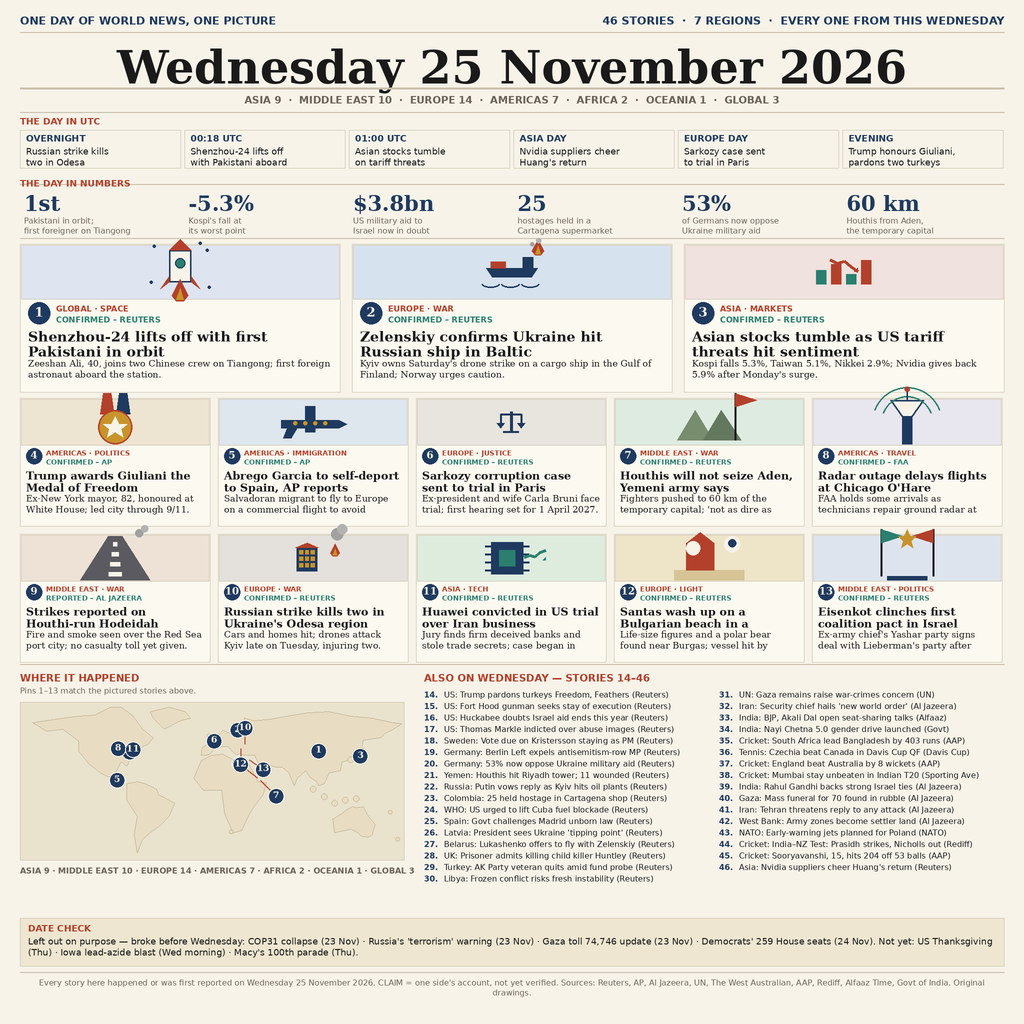
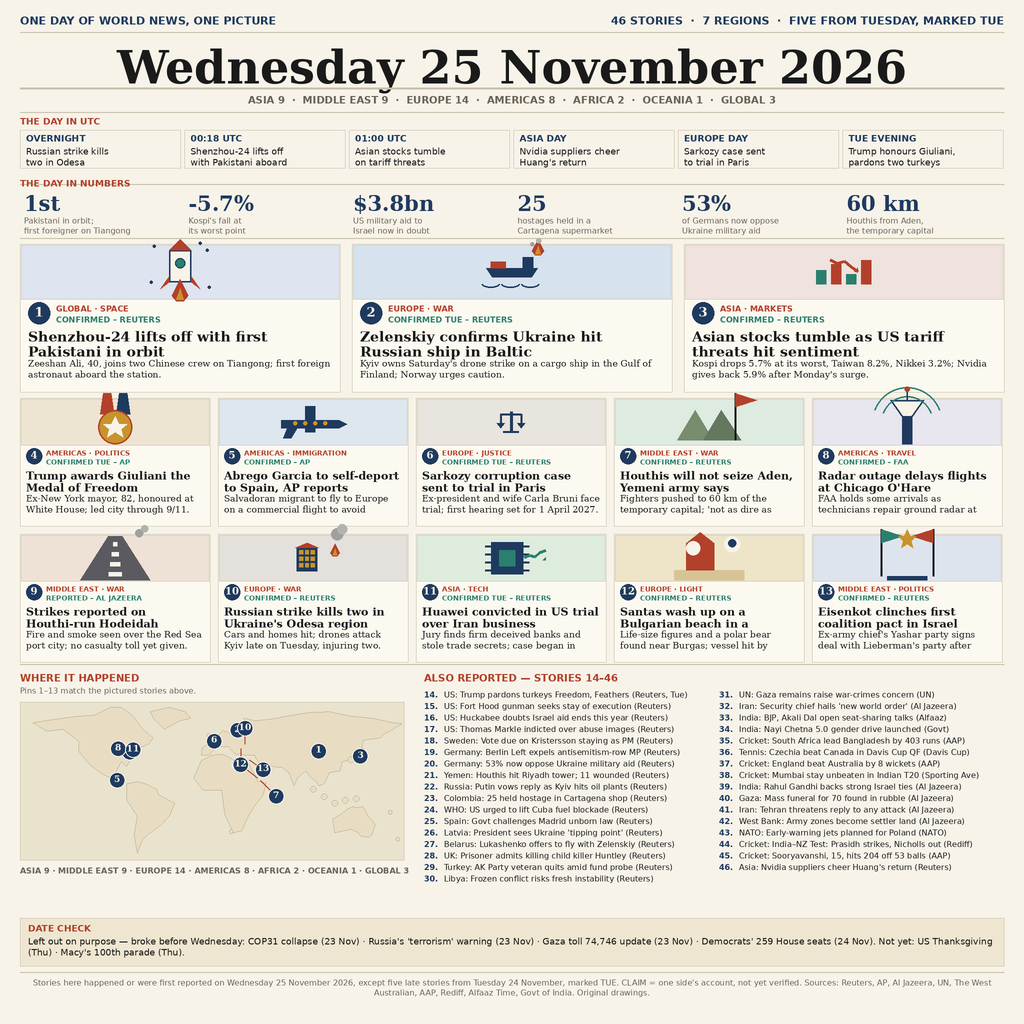
Reviewer fixes: honest Tuesday dating (5 stories marked TUE), Lead 3 figures (Kospi -5.7%, Taiwan -8.2%, Nikkei -3.2%), region counts (Middle East 9, Americas 8), DATE CHECK drops Iowa blast from not-yet list; re-render

diff --git a/render.py b/render.py
@@ -5,8 +5,9 @@ Dense cream-serif newspaper front page (ATM recipe): 46 stories,
 13 pictured (3 leads + 10 cards), UTC timeline, day-in-numbers
 strip, pinned world map, 33 one-line briefs, DATE CHECK box and a
 verification footer. All illustrations are flat vector shapes
-drawn from scratch with PIL primitives. All stories are real,
+drawn from scratch with PIL primitives. All stories are real:
 dated Wednesday 25 November 2026 (or first reported that day),
+except five late stories from Tuesday 24 November, marked TUE,
 sourced from live news search (Reuters, AP, Al Jazeera, UN, ...).
 
 Drawn at 2048x2048 (master), then downscaled to 1024x1024 for
@@ -71,7 +72,7 @@ def hline(y, x0=MX, x1=W - MX, fill=RULE, width=2):
 # ---------------------------------------------------------------- kicker
 fk = F(SANSB, 22)
 text(MX, 28, "ONE DAY OF WORLD NEWS, ONE PICTURE", fk, NAVY)
-text(W - MX, 28, "46 STORIES  ·  7 REGIONS  ·  EVERY ONE FROM THIS WEDNESDAY",
+text(W - MX, 28, "46 STORIES  ·  7 REGIONS  ·  FIVE FROM TUESDAY, MARKED TUE",
      fk, NAVY, anchor="ra")
 hline(64)
 
@@ -81,7 +82,7 @@ text(W // 2, 80, "Wednesday 25 November 2026", fm, INK, anchor="ma")
 hline(176, width=4)
 fsub = F(SANSB, 20)
 text(W // 2, 188,
-     "ASIA 9  ·  MIDDLE EAST 10  ·  EUROPE 14  ·  AMERICAS 7  ·  AFRICA 2  ·  OCEANIA 1  ·  GLOBAL 3",
+     "ASIA 9  ·  MIDDLE EAST 9  ·  EUROPE 14  ·  AMERICAS 8  ·  AFRICA 2  ·  OCEANIA 1  ·  GLOBAL 3",
      fsub, MUTED, anchor="ma")
 hline(224)
 
@@ -94,7 +95,7 @@ timeline = [
     ("01:00 UTC", "Asian stocks tumble\non tariff threats"),
     ("ASIA DAY", "Nvidia suppliers cheer\nHuang's return"),
     ("EUROPE DAY", "Sarkozy case sent\nto trial in Paris"),
-    ("EVENING", "Trump honours Giuliani,\npardons two turkeys"),
+    ("TUE EVENING", "Trump honours Giuliani,\npardons two turkeys"),
 ]
 ty, th = 236, 100
 text(MX, ty - 4, "THE DAY IN UTC", F(SANSB, 18), BRICK)
@@ -112,7 +113,7 @@ ny = 356
 text(MX, ny, "THE DAY IN NUMBERS", F(SANSB, 18), BRICK)
 nums = [
     ("1st", "Pakistani in orbit;\nfirst foreigner on Tiangong"),
-    ("-5.3%", "Kospi's fall at\nits worst point"),
+    ("-5.7%", "Kospi's fall at\nits worst point"),
     ("$3.8bn", "US military aid to\nIsrael now in doubt"),
     ("25", "hostages held in a\nCartagena supermarket"),
     ("53%", "of Germans now oppose\nUkraine military aid"),
@@ -298,21 +299,21 @@ LEADS = [
     (1, "rocket", "GLOBAL", "SPACE", "CONFIRMED – REUTERS",
      "Shenzhou-24 lifts off with first Pakistani in orbit",
      "Zeeshan Ali, 40, joins two Chinese crew on Tiangong; first foreign astronaut aboard the station."),
-    (2, "ship", "EUROPE", "WAR", "CONFIRMED – REUTERS",
+    (2, "ship", "EUROPE", "WAR", "CONFIRMED TUE – REUTERS",
      "Zelenskiy confirms Ukraine hit Russian ship in Baltic",
      "Kyiv owns Saturday's drone strike on a cargo ship in the Gulf of Finland; Norway urges caution."),
     (3, "chart", "ASIA", "MARKETS", "CONFIRMED – REUTERS",
      "Asian stocks tumble as US tariff threats hit sentiment",
-     "Kospi falls 5.3%, Taiwan 5.1%, Nikkei 2.9%; Nvidia gives back 5.9% after Monday's surge."),
+     "Kospi drops 5.7% at its worst, Taiwan 8.2%, Nikkei 3.2%; Nvidia gives back 5.9% after Monday's surge."),
 ]
 CARDS = [
-    (4, "medal", "AMERICAS", "POLITICS", "CONFIRMED – AP",
+    (4, "medal", "AMERICAS", "POLITICS", "CONFIRMED TUE – AP",
      "Trump awards Giuliani the Medal of Freedom",
      "Ex-New York mayor, 82, honoured at White House; led city through 9/11."),
     (5, "plane", "AMERICAS", "IMMIGRATION", "CONFIRMED – AP",
      "Abrego Garcia to self-deport to Spain, AP reports",
      "Salvadoran migrant to fly to Europe on a commercial flight to avoid deportation."),
-    (6, "scales", "EUROPE", "JUSTICE", "CONFIRMED – REUTERS",
+    (6, "scales", "EUROPE", "JUSTICE", "CONFIRMED TUE – REUTERS",
      "Sarkozy corruption case sent to trial in Paris",
      "Ex-president and wife Carla Bruni face trial; first hearing set for 1 April 2027."),
     (7, "flag", "MIDDLE EAST", "WAR", "CONFIRMED – REUTERS",
@@ -327,7 +328,7 @@ CARDS = [
     (10, "blast", "EUROPE", "WAR", "CONFIRMED – REUTERS",
      "Russian strike kills two in Ukraine's Odesa region",
      "Cars and homes hit; drones attack Kyiv late on Tuesday, injuring two."),
-    (11, "chip", "ASIA", "TECH", "CONFIRMED – REUTERS",
+    (11, "chip", "ASIA", "TECH", "CONFIRMED TUE – REUTERS",
      "Huawei convicted in US trial over Iran business",
      "Jury finds firm deceived banks and stole trade secrets; case began in 2018."),
     (12, "santa", "EUROPE", "LIGHT", "CONFIRMED – REUTERS",
@@ -458,15 +459,15 @@ for lon, lat, num in PINS:
     text(qx, qy - 14, str(num), fpin, PAPER, anchor="ma")
 
 text(mapx, map_bot + 12,
-     "ASIA 9 · MIDDLE EAST 10 · EUROPE 14 · AMERICAS 7 · AFRICA 2 · OCEANIA 1 · GLOBAL 3",
+     "ASIA 9 · MIDDLE EAST 9 · EUROPE 14 · AMERICAS 8 · AFRICA 2 · OCEANIA 1 · GLOBAL 3",
      F(SANSB, 16), MUTED)
 
 # --- briefs panel
 bx = mapx + mapw + 24
 bw = W - MX - bx
-text(bx, by + 16, "ALSO ON WEDNESDAY — STORIES 14–46", F(SANSB, 20), BRICK)
+text(bx, by + 16, "ALSO REPORTED — STORIES 14–46", F(SANSB, 20), BRICK)
 BRIEFS = [
-    (14, "US: Trump pardons turkeys Freedom, Feathers (Reuters)"),
+    (14, "US: Trump pardons turkeys Freedom, Feathers (Reuters, Tue)"),
     (15, "US: Fort Hood gunman seeks stay of execution (Reuters)"),
     (16, "US: Huckabee doubts Israel aid ends this year (Reuters)"),
     (17, "US: Thomas Markle indicted over abuse images (Reuters)"),
@@ -525,14 +526,14 @@ d.rectangle([MX, dy, W - MX, dy + 96], fill=(238, 230, 208), outline=RULE)
 text(MX + 16, dy + 10, "DATE CHECK", F(SANSB, 18), BRICK)
 dc = ("Left out on purpose — broke before Wednesday: COP31 collapse (23 Nov) · Russia's 'terrorism' warning "
       "(23 Nov) · Gaza toll 74,746 update (23 Nov) · Democrats' 259 House seats (24 Nov).  "
-      "Not yet: US Thanksgiving (Thu) · Iowa lead-azide blast (Wed morning) · Macy's 100th parade (Thu).")
+      "Not yet: US Thanksgiving (Thu) · Macy's 100th parade (Thu).")
 for j, ln in enumerate(wrap(dc, F(SANS, 18), CW - 32)):
     text(MX + 16, dy + 36 + j * 22, ln, F(SANS, 18), INK)
 
 # ---------------------------------------------------------------- footer
 fy = 1944
 hline(fy)
-foot = ("Every story here happened or was first reported on Wednesday 25 November 2026. "
+foot = ("Stories here happened or were first reported on Wednesday 25 November 2026, except five late stories from Tuesday 24 November, marked TUE. "
         "CLAIM = one side's account, not yet verified. Sources: Reuters, AP, Al Jazeera, UN, "
         "The West Australian, AAP, Rediff, Alfaaz Time, Govt of India. Original drawings.")
 for j, ln in enumerate(wrap(foot, F(SANS, 16), CW)):
